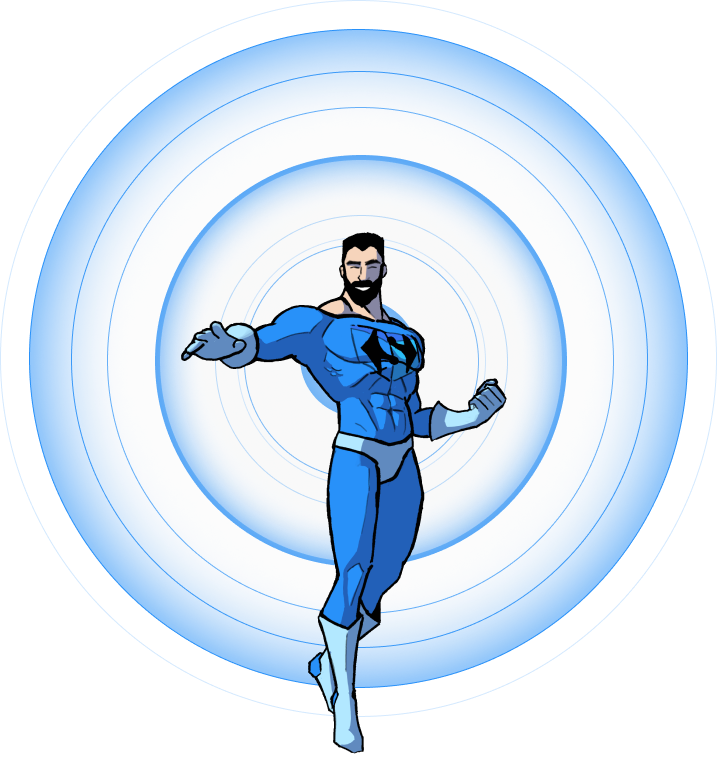
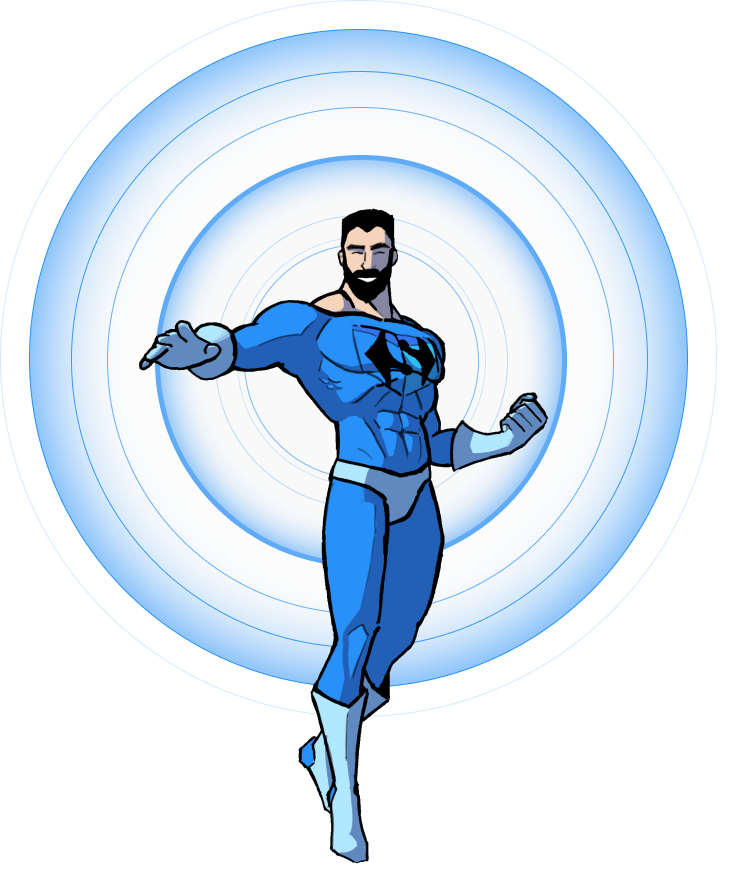
fix(staking): 2 sames pools solved

diff --git a/src/pages/api/stakings/[wallet].ts b/src/pages/api/stakings/[wallet].ts
@@ -38,29 +38,40 @@ export default async function handler(
     if (req.method === 'GET') {
       try {
         const results = await query(`
-    SELECT * FROM ((SELECT  t1.id as id,
-                            t1.project_name as projectName,
-                            t1.pool_type as poolType,
-                            t1.pool_name as poolName,
-                            (SELECT total FROM staking_total) as poolBalance,
-                            t1.holder_address as holderAddress,
-                            t1.holder_balance as holderBalance,
-                            t1.holder_share as holderShare,
-                            t1.active as active,
-                            t1.timestamped as timeStamped
-                    FROM staking as t1 WHERE t1.holder_address = '${wallet}' AND t1.active = 1 )
-                      UNION
-                    (SELECT t2.id,
-                            t2.projectName,
-                            t2.poolType,
-                            t2.poolName,
-                            t2.poolBalance,
-                            'undefined' as holderAddress,
-                            t2.holderBalance,
-                            t2.holderShare,
-                            t2.active,
-                            t2.timeStamped
-                      FROM staking_view as t2)) as t3
+        SELECT * FROM ((SELECT  t1.id as id,
+          t1.project_name as projectName,
+          t1.pool_type as poolType,
+          t1.pool_name as poolName,
+          (SELECT total FROM staking_total) as poolBalance,
+          t1.holder_address as holderAddress,
+          t1.holder_balance as holderBalance,
+          t1.holder_share as holderShare,
+          t1.active as active,
+          t1.timestamped as timeStamped
+      FROM staking as t1 WHERE t1.holder_address = '${wallet}' AND t1.active = 1 )
+        UNION
+      (SELECT t2.id,
+          t2.projectName,
+          t2.poolType,
+          t2.poolName,
+          t2.poolBalance,
+          'undefined' as holderAddress,
+          t2.holderBalance,
+          t2.holderShare,
+          t2.active,
+          t2.timeStamped
+         FROM staking_view as t2
+                WHERE NOT EXISTS (SELECT  t1.id as id,
+          t1.project_name as projectName,
+          t1.pool_type as poolType,
+          t1.pool_name as poolName,
+          (SELECT total FROM staking_total) as poolBalance,
+          t1.holder_address as holderAddress,
+          t1.holder_balance as holderBalance,
+          t1.holder_share as holderShare,
+          t1.active as active,
+          t1.timestamped as timeStamped
+         FROM staking as t1 WHERE t1.holder_address = '${wallet}' AND t1.active = 1 ))) as t3;
       `)
         return res.json(results)
       } catch (e) {

diff --git a/src/components/molecules/BestPriceItems/index.tsx b/src/components/molecules/BestPriceItems/index.tsx
@@ -21,7 +21,7 @@ const bestPriceItemsList = [
     image: PolygonImg,
     link: 'https://v2.swapmatic.io/#/matic/swap',
     description:
-      'SushiSwap, QuickSwap, ComethSwap, Dfyn, mStable, Curve, DODO, WaultSwap, Polydex,  ... and counting!'
+      'SushiSwap, QuickSwap, ComethSwap, Dfyn, mStable, Curve, DODO, WaultSwap, Polydex, ApeSwap, FirebirdOneSwap, Balancer, KyberDMM, ... and counting!'
   },
   {
     title: 'Mainnet',

diff --git a/src/components/organisms/Hero/index.tsx b/src/components/organisms/Hero/index.tsx
@@ -31,10 +31,10 @@ const Hero: React.FC = () => {
               objectFit: 'contain'
             }}
             position={{
-              top: '5%',
+              top: '0',
               right: '0',
               left: '30%',
-              translation: { x: '0%', y: '0' },
+              translation: { x: '0%', y: '-5%' },
               zIndex: -1
             }}
           />
